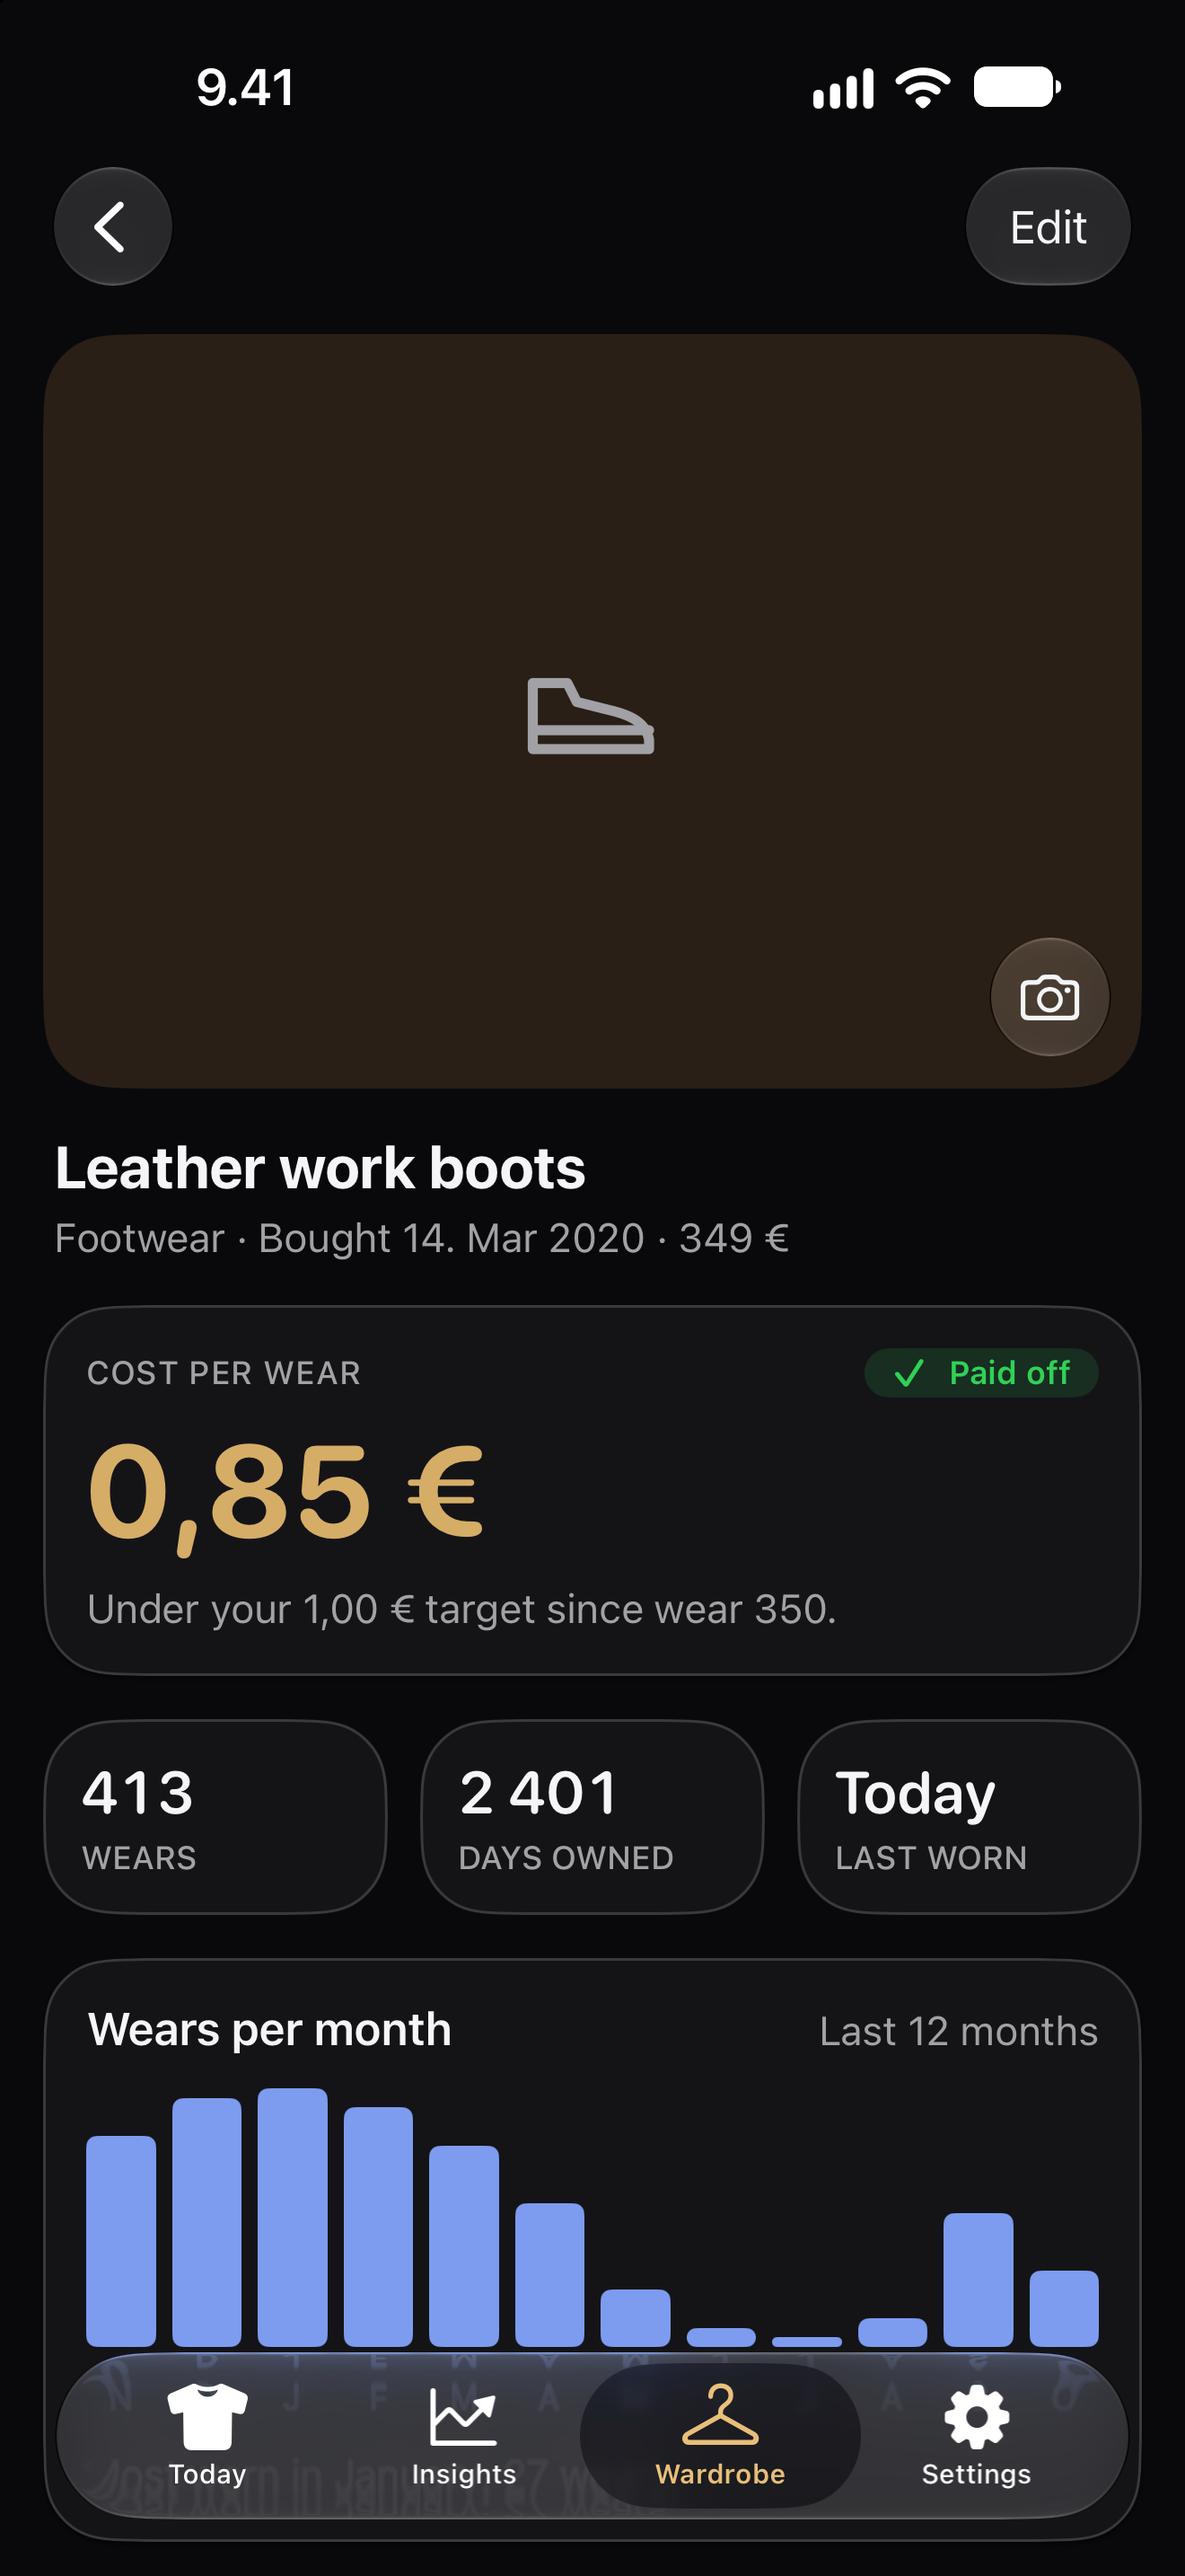
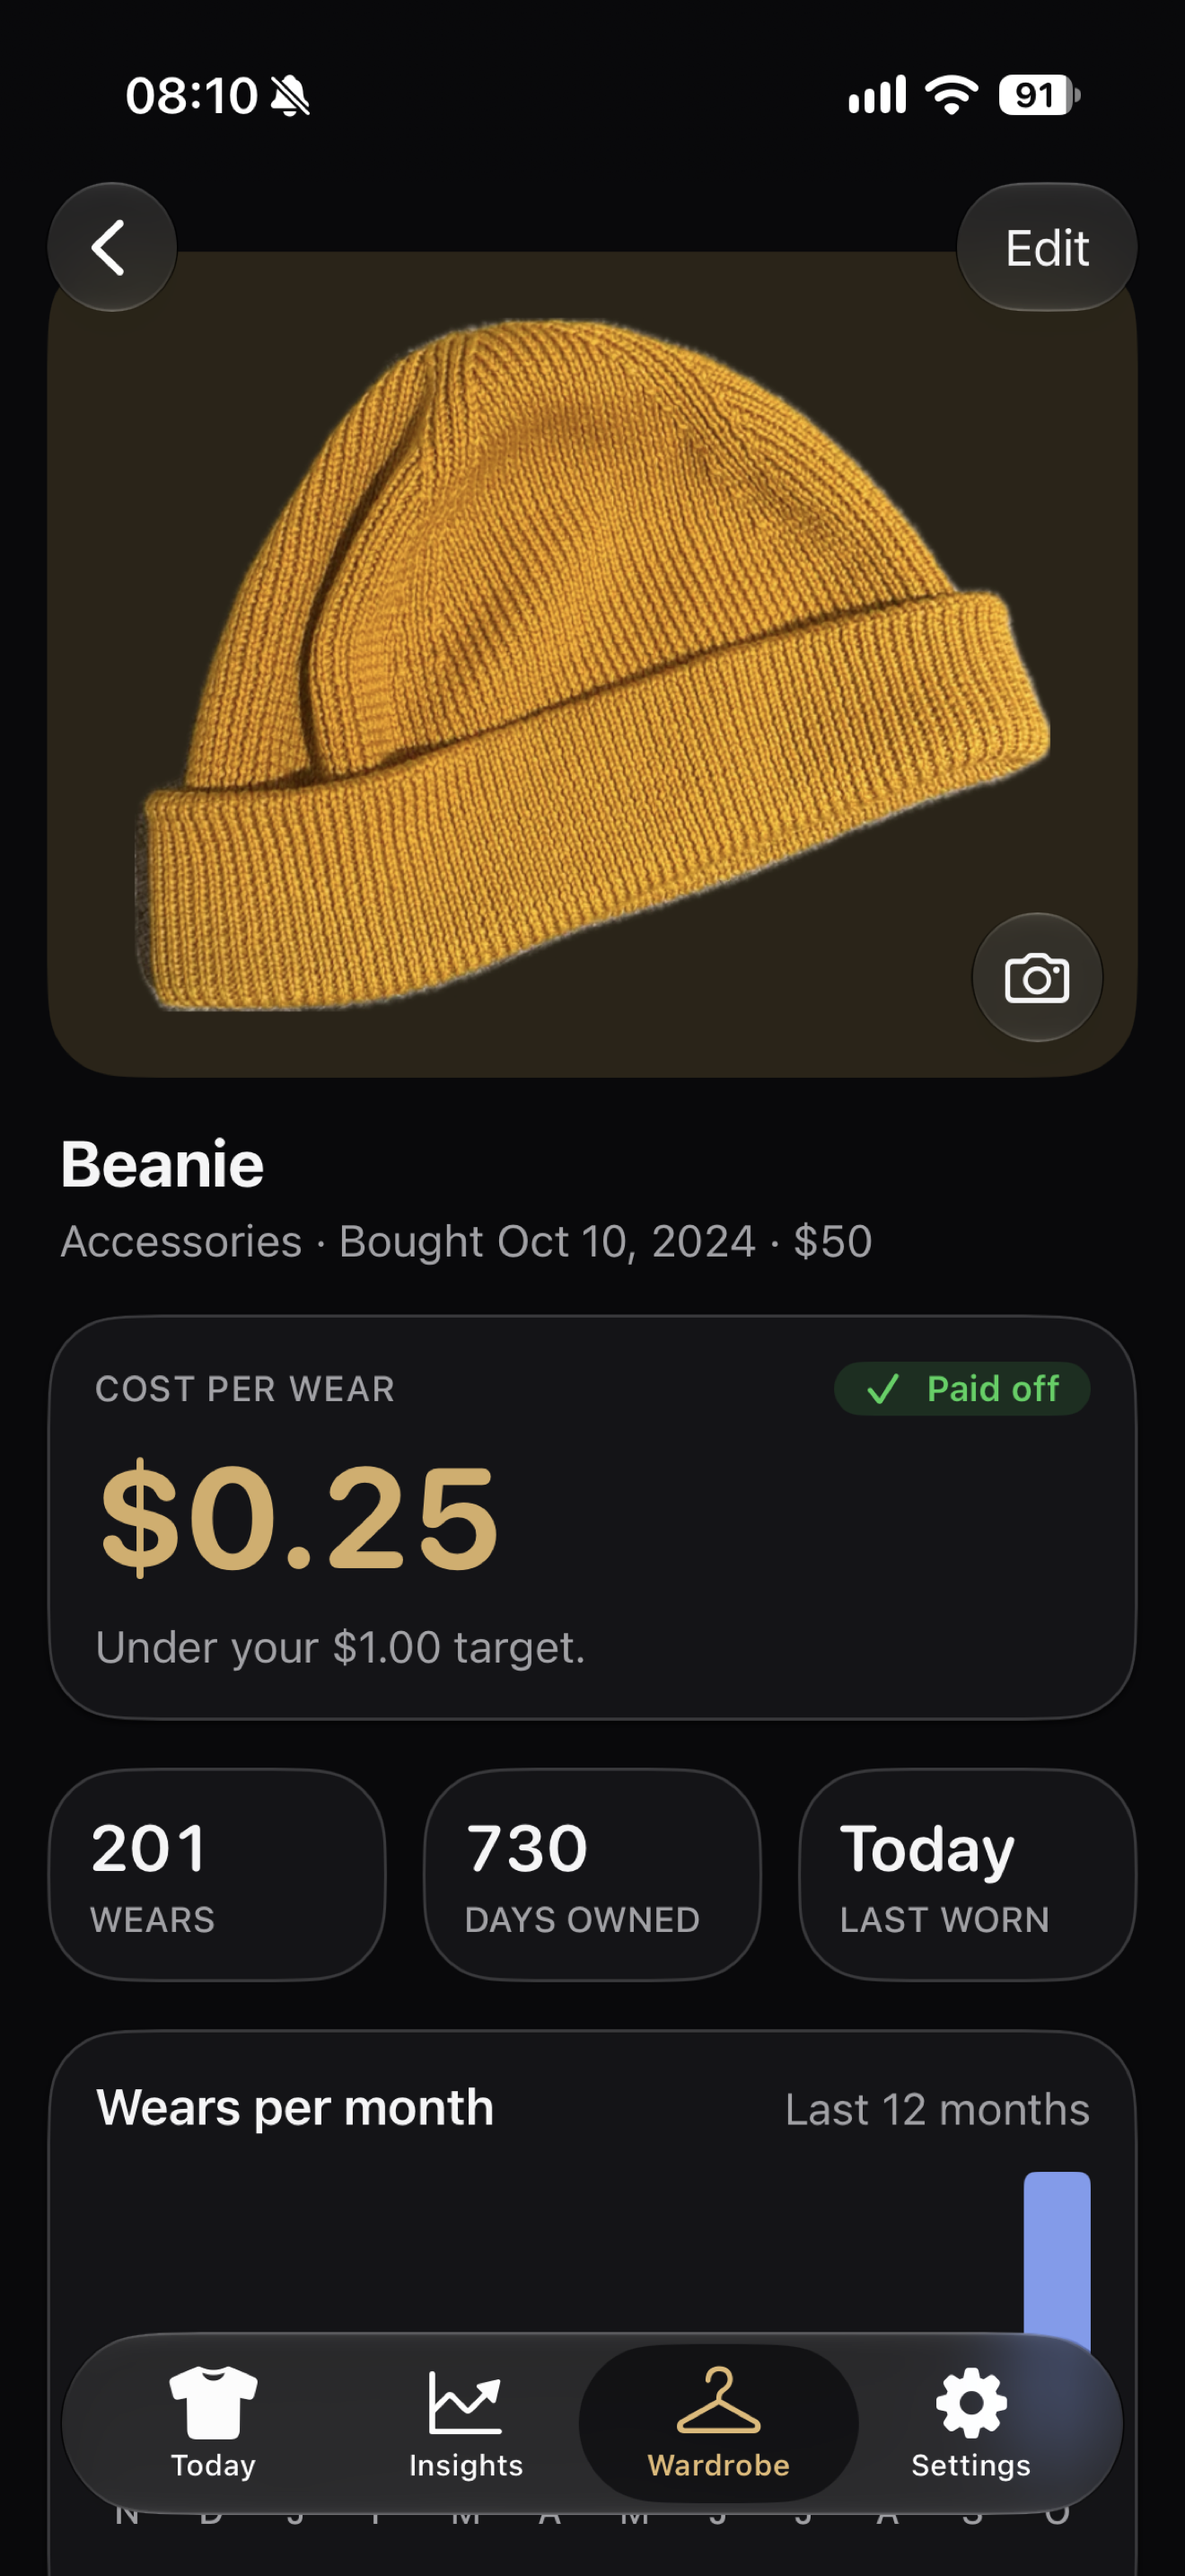
Use real-photo screenshots and lower minimum iOS to 26.6
- Replace simulator screenshots with the user's iPhone screenshots of
  real items, scaled to 1320x2868 and reordered (Wardrobe first);
  originals kept in store/screenshots/source
- Deployment target 26.6 (set in Xcode); app needs nothing from iOS 27
- Xcode moved ITSAppUsesNonExemptEncryption into build settings

diff --git a/store/listing.md b/store/listing.md
@@ -66,9 +66,12 @@ Data collection: **No, we do not collect data from this app.**
 
 ## Screenshots
 
-`store/screenshots/` — 1320 × 2868 (6.9"), in this order:
-1. Today
-2. Wardrobe
+`store/screenshots/` — 1320 × 2868 (6.9"), upload in this order:
+1. Wardrobe
+2. Today
 3. Item detail
 4. Insights
 5. Welcome
+
+Taken on an iPhone with real items and scaled up from 1206 × 2622; the
+originals are in `store/screenshots/source/`.
